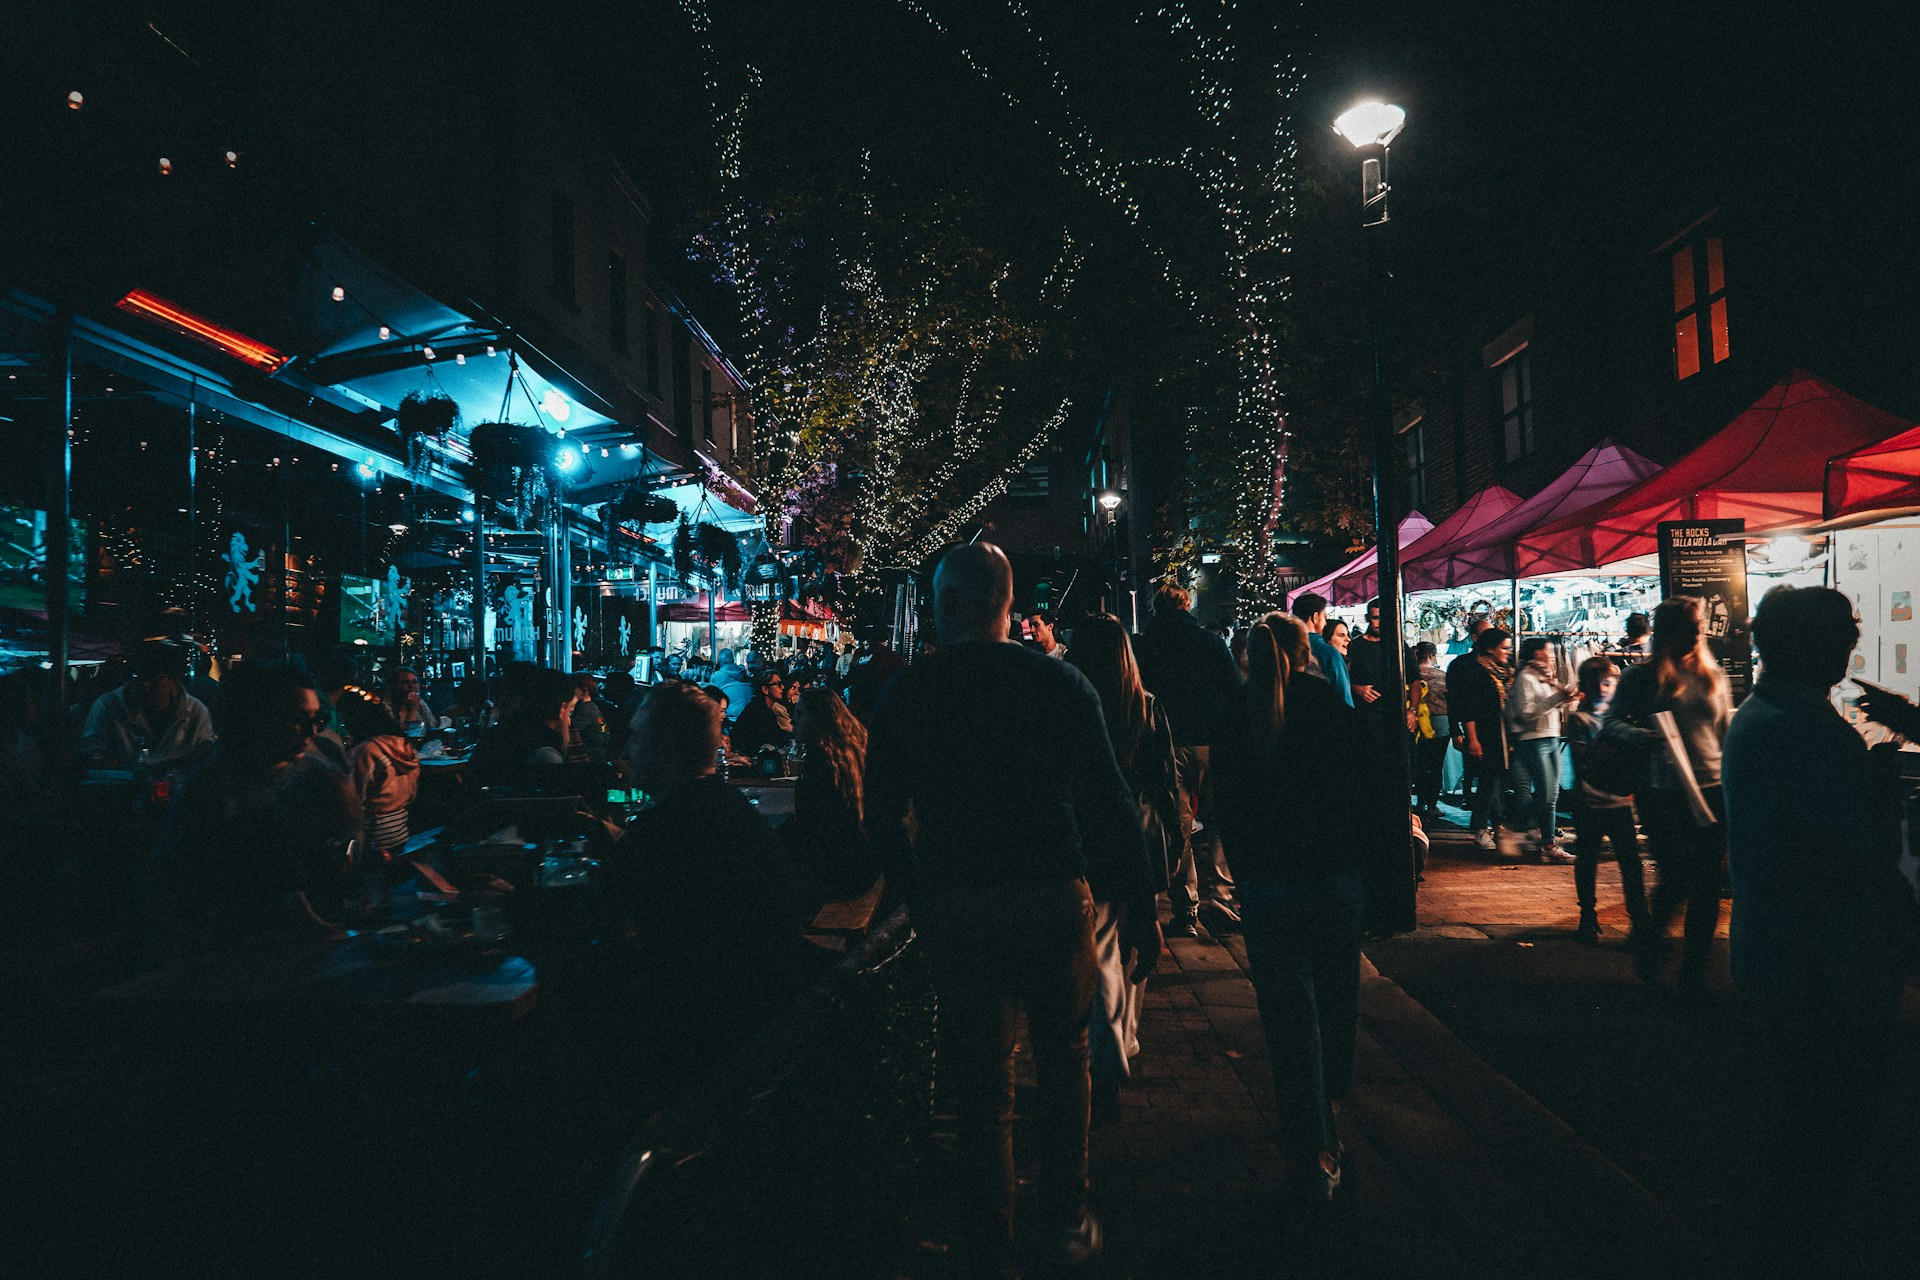
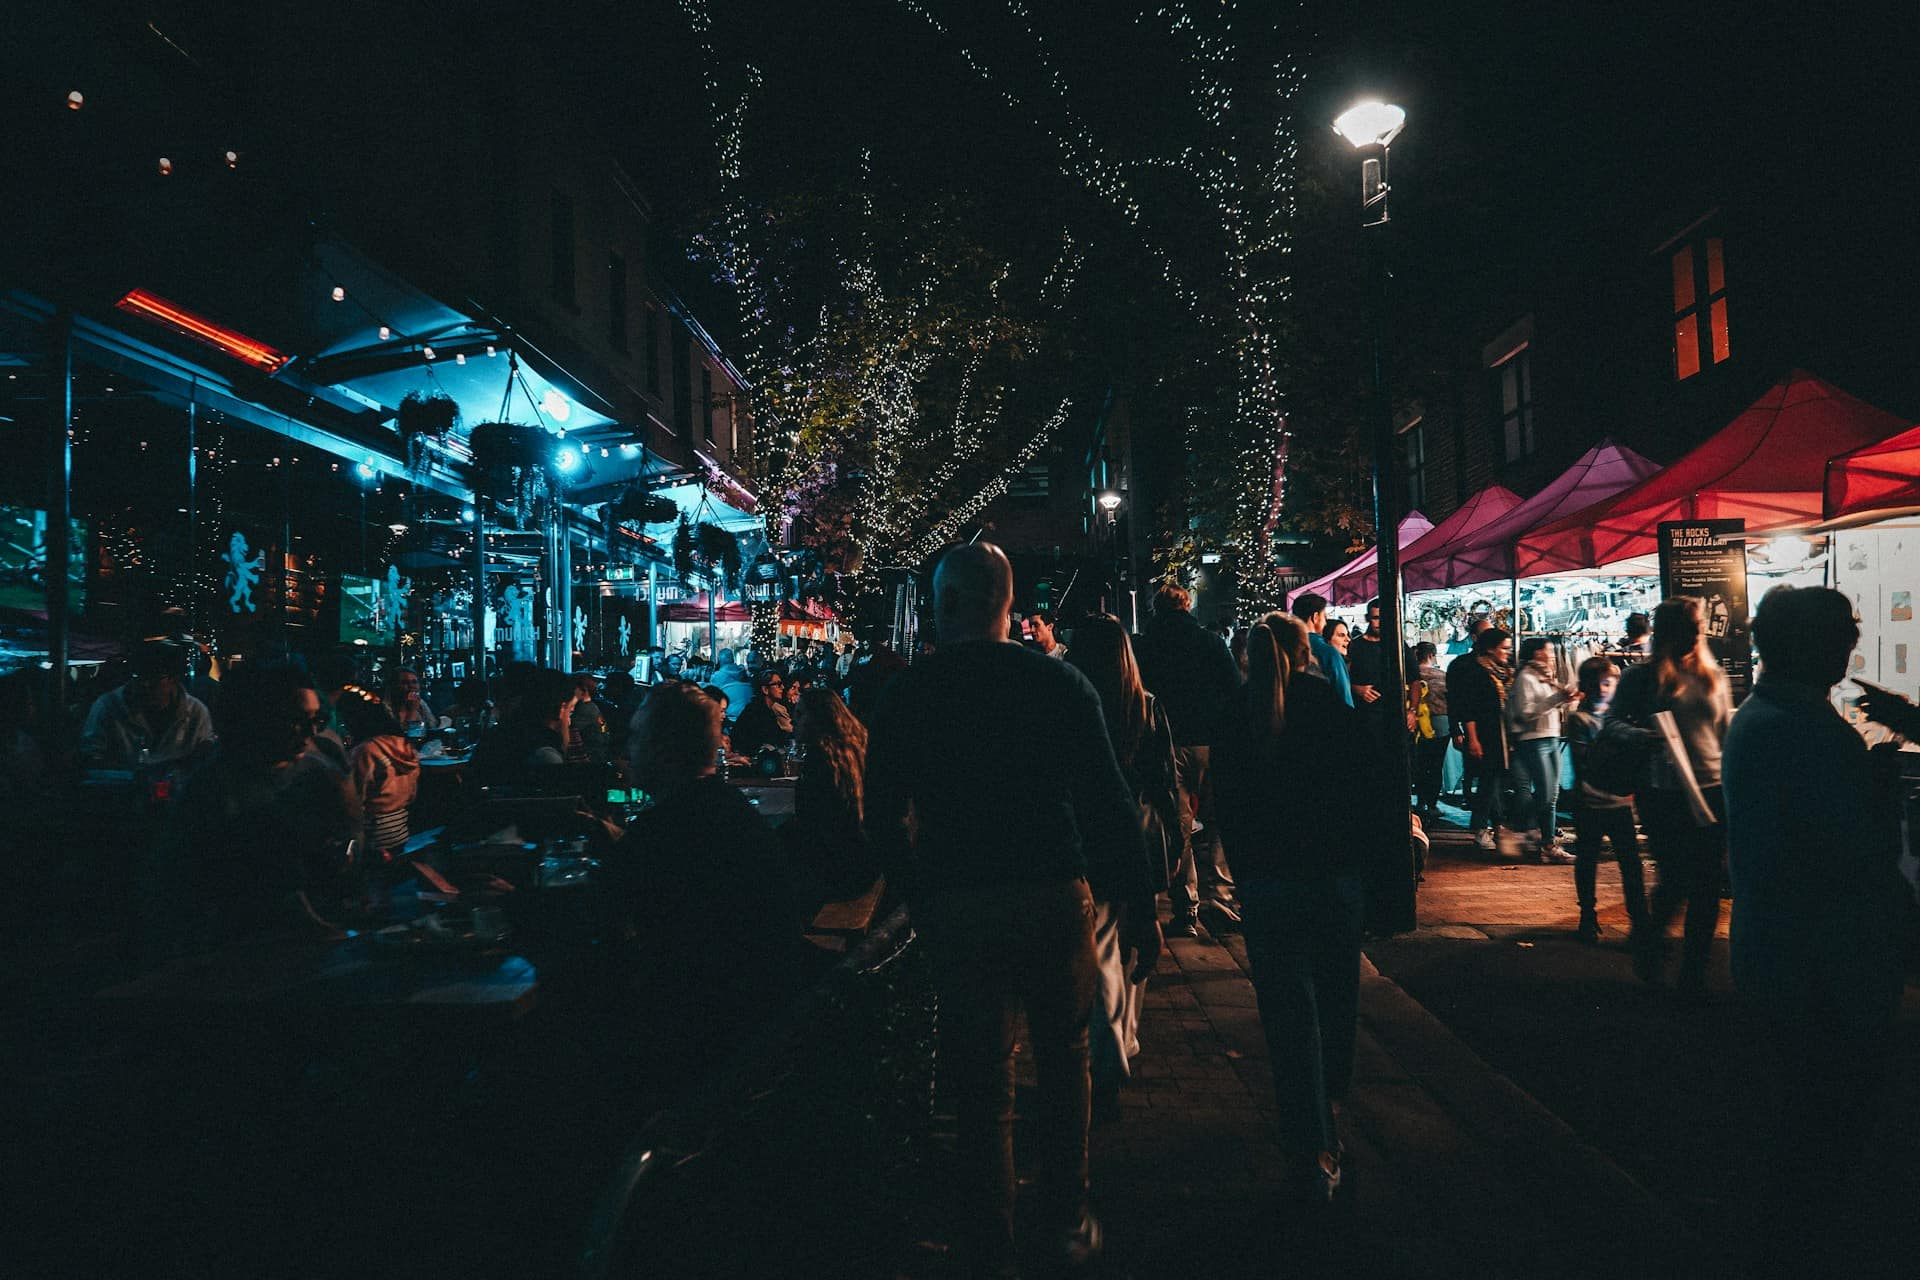
perf: recompress hero images (3.0MB -> 1.3MB) + document keyframe slide-count contract
- All four hero JPEGs re-encoded with sharp (mozjpeg, q72, progressive,
  1920px kept for retina): wedding 624->312KB, private-gathering
  670->354KB, conference 1150->408KB, community 559->212KB. They're
  served unoptimized past the marker-gated loader, so file size is the
  delivered size — this was the whole payload regression
- The module's keyframe percentages hard-assume 4 slides while
  SLOT_SECONDS derives from montage.length; documented the contract on
  the montage array so a fifth slide doesn't silently desync captions
  or break the dip-free fade-over

diff --git a/src/components/landing/sections/HeroMontage.tsx b/src/components/landing/sections/HeroMontage.tsx
@@ -16,7 +16,13 @@ const CYCLE_SECONDS = 20;
    Slide order is also paint order: each layer is a later sibling than the one
    before it, which the fade-over keyframes rely on (see the module CSS).
    Focal points keep each image's subject in frame when `object-fit: cover`
-   crops on narrow viewports. */
+   crops on narrow viewports.
+
+   CONTRACT: the module's keyframe percentages (heroZoom* and captionCycle)
+   assume exactly 4 slides — 25% slots, hold to 33%, fade out by 41%. Only
+   SLOT_SECONDS below derives from montage.length; the CSS does not. Adding
+   or removing a slide without retuning those keyframes silently breaks the
+   dip-free fade-over and desyncs captions from their photos. */
 const montage = [
   { image: heroWedding, focal: "50% 40%", caption: "Weddings & celebrations" },
   { image: heroGathering, focal: "50% 45%", caption: "Private gatherings" },
